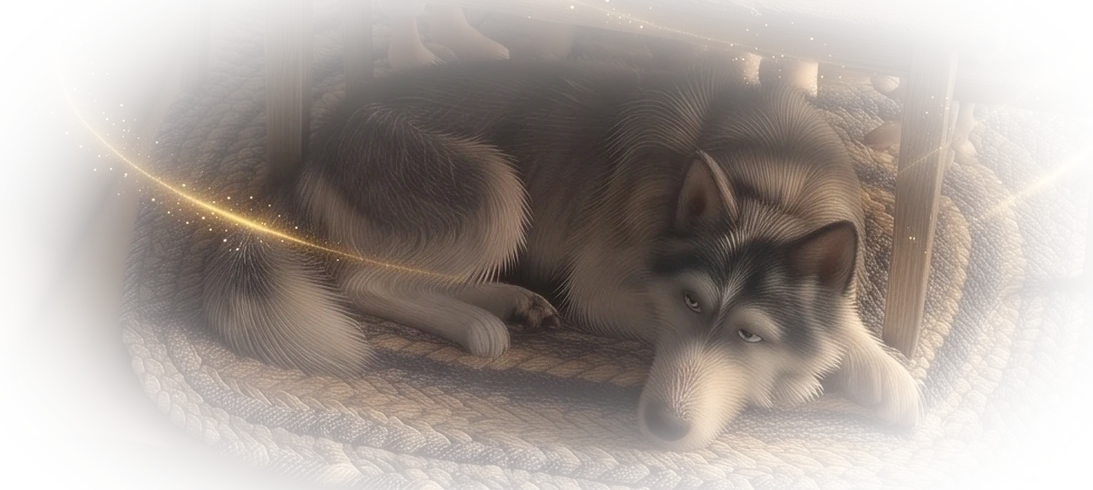
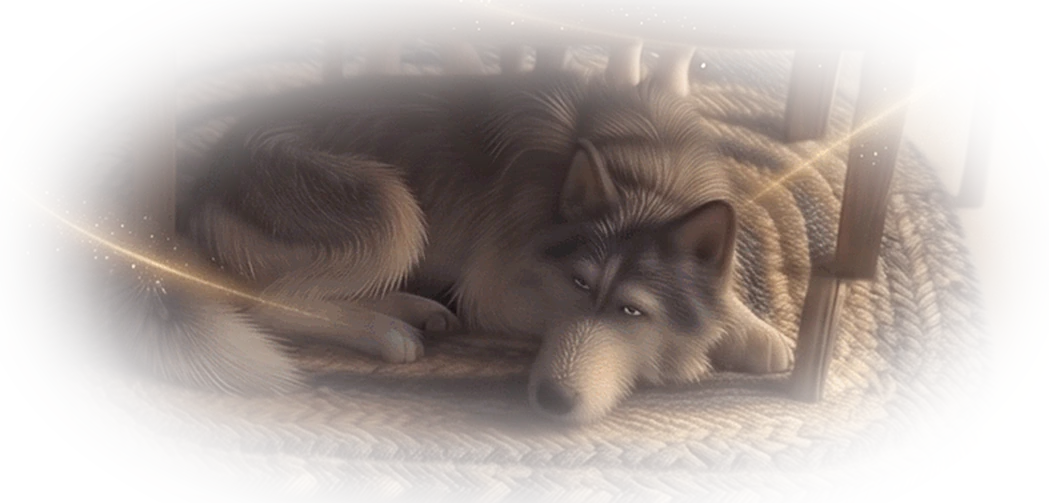
Upside-Down World p16: use the new widescreen dinner gif (two poses fade: family smiling at Sam's ball -> shocked gasp), Roma breathing, text on the left page, new depth map; drop the earlier portrait-fit art
Claude-Session: https://claude.ai/code/session_01BFtifSTdmWYaAK88ECs5PE

diff --git a/books/upside-down-world/sprite.js b/books/upside-down-world/sprite.js
@@ -1,2 +1,2 @@
 /* flying objects drawn over a still page: img = transparent sprite, rs = ball radius in the sprite, path = [x,y,radius] per frame at 24 fps in 1408x768 picture pixels */
-window.SPRITES={p01:{img:"img/p01-ball.webp",size:260,rs:104.5,path:[[951.0,390.0,18.5],[946.4,377.6,21.9],[944.8,373.2,22.6],[941.8,364.8,24.4],[938.6,356.8,26.0],[935.2,349.1,27.6],[931.6,342.1,29.2],[927.9,335.5,30.7],[923.8,329.1,32.0],[919.7,322.8,33.5],[915.7,316.9,34.9],[911.8,311.1,36.2],[907.8,305.5,37.6],[903.9,300.1,38.9],[899.8,295.1,40.2],[895.8,290.0,41.2],[891.4,285.1,42.2],[887.2,280.3,43.2],[882.9,275.7,44.3],[878.9,271.0,45.3],[874.9,266.6,46.5],[871.2,262.1,47.8],[867.5,257.7,49.1],[863.9,253.4,50.5],[860.2,249.1,51.8],[856.2,244.7,53.0],[852.4,240.6,54.2],[848.3,236.6,55.3],[843.9,232.6,56.5],[839.6,228.6,57.6],[835.4,224.8,58.6],[830.9,221.0,59.7],[826.3,217.3,60.7],[821.9,213.7,61.5],[817.4,210.1,62.4],[812.8,206.8,63.6],[808.1,203.5,64.5],[803.4,200.3,65.6],[798.8,196.9,66.6],[794.1,193.7,67.7],[789.4,190.4,68.8],[784.8,187.1,70.0],[780.1,183.8,71.3],[775.3,180.6,72.7],[770.3,177.4,74.1],[765.1,174.3,75.5],[759.8,171.1,77.0],[754.7,167.8,78.5],[749.2,164.6,80.0],[743.7,161.4,81.3],[738.1,157.9,82.7],[732.6,154.6,84.0]]},p02:{img:"img/p01-ball.webp",size:260,rs:104.5,kind:"lob",from:[1008,538,9],to:[1040,212,4.2],apex:170,rig:[{img:"img/p02-leg.webp",box:[960,515,60,60],pivot:[987,531],depth:[988,545],motion:"leg"}]},p03:{rig:[{img:"img/p03-leo.webp",box:[906,462,52,56],pivot:[932,504],depth:[932,495],motion:"headL"},{img:"img/p03-sam.webp",box:[946,475,52,56],pivot:[972,515],depth:[972,505],motion:"headS"}]},p03s:{img:"img/p01-ball.webp",size:260,rs:104.5,kind:"hops",ground:true,rest:1.6,start:[920.3,488.6,14.5],du:[1.25,.42,.3],grow:.5,bend:-62,hops:[[896,197,9.5,175],[892,187,8.5,15],[879,181,7.5,6]],to:[879,181,7.5]},p03t:{rig:[{img:"img/p03-turn.webp",box:[888,468,114,140],pivot:[945,538],depth:[945,540],motion:"turn"}]},p05p:{rig:[{img:"img/p05-point.webp",box:[884,452,118,156],pivot:[943,530],depth:[943,540],motion:"point2"}]},p06k:{rig:[{img:"img/p06-k0.webp",box:[878,423,80,114],pivot:[918.4,478.3],depth:[918.4,508.3],motion:"kf0"},{img:"img/p06-k1.webp",box:[866,417,97,111],pivot:[915.3,473.5],depth:[915.3,503.5],motion:"kf1"},{img:"img/p06-k2.webp",box:[874,472,99,116],pivot:[921.4,531.8],depth:[921.4,561.8],motion:"kf2"}]},p07k:{rig:[{img:"img/p07-kids.webp",box:[859.6,324.2,83.1,120.1],pivot:[910,404],depth:[910,395],motion:"walk7"}]},p08k:{rig:[{img:"img/p08-k1.webp",box:[750,272,339.5,323],pivot:[920,590],depth:[920,560],motion:"p8a"},{img:"img/p08-k2.webp",box:[781,272,283.5,323],pivot:[920,590],depth:[920,560],motion:"p8b"}]},p09k:{rig:[{img:"img/p09-wave.webp",box:[868,430,152,180],pivot:[944,520],depth:[944,540],motion:"p9"}]},p10k:{rig:[{img:"img/p10-kids.webp",box:[800,350,240,210],pivot:[920,455],depth:[920,470],motion:"stride"},{img:"img/p10-whale.webp",box:[640,30,550,380],pivot:[905,220],depth:[905,220],motion:"flip10"}]},p11k:{rig:[{img:"img/p10-kids.webp",box:[800,350,240,210],pivot:[920,455],depth:[920,470],motion:"stride"},{img:"img/p11-song.webp",box:[23,59,1272,491],pivot:[660,300],depth:[880,180],motion:"song11"}]},p12k:{rig:[{img:"img/p12-k1.webp",box:[810,340,250,260],pivot:[935,470],depth:[935,480],motion:"p12a"},{img:"img/p12-k2.webp",box:[810,340,250,260],pivot:[935,470],depth:[935,480],motion:"p12b"}]},p13k:{rig:[{img:"img/p13-gasp.webp",box:[920,350,140,140],pivot:[990,420],depth:[990,430],motion:"p13"}]},p14k:{rig:[{img:"img/p14-k1.webp",box:[850,320,210,220],pivot:[955,430],depth:[955,440],motion:"p14a"},{img:"img/p14-k2.webp",box:[850,320,210,220],pivot:[955,430],depth:[955,440],motion:"p14b"}]},p15k:{rig:[{img:"img/p15-k1.webp",box:[557,7,792,675.5],pivot:[953,345],depth:[975,418],motion:"p15a"},{img:"img/p15-k2.webp",box:[557,7,792,675.5],pivot:[953,345],depth:[975,418],motion:"p15b"}]},p16k:{rig:[{img:"img/p16-leo.webp",box:[817.5, 151.5, 139.0, 193.0],pivot:[887.2, 329.9],depth:[887, 248],motion:"p16leo"},{img:"img/p16-dad.webp",box:[945.0, 0.0, 192.5, 227.0],pivot:[1044.4, 230.1],depth:[1041, 103],motion:"p16dad"},{img:"img/p16-mom.webp",box:[1122.0, 53.0, 183.0, 209.0],pivot:[1219.7, 251.3],depth:[1214, 158],motion:"p16mom"},{img:"img/p16-sam.webp",box:[1178.0, 265.0, 143.5, 159.5],pivot:[1246.9, 417.6],depth:[1250, 345],motion:"p16sam"},{img:"img/p16-roma.webp",box:[716.5, 470.0, 546.5, 245.0],pivot:[990.0, 680.6],depth:[990, 593],motion:"p16roma"}]}};
+window.SPRITES={p01:{img:"img/p01-ball.webp",size:260,rs:104.5,path:[[951.0,390.0,18.5],[946.4,377.6,21.9],[944.8,373.2,22.6],[941.8,364.8,24.4],[938.6,356.8,26.0],[935.2,349.1,27.6],[931.6,342.1,29.2],[927.9,335.5,30.7],[923.8,329.1,32.0],[919.7,322.8,33.5],[915.7,316.9,34.9],[911.8,311.1,36.2],[907.8,305.5,37.6],[903.9,300.1,38.9],[899.8,295.1,40.2],[895.8,290.0,41.2],[891.4,285.1,42.2],[887.2,280.3,43.2],[882.9,275.7,44.3],[878.9,271.0,45.3],[874.9,266.6,46.5],[871.2,262.1,47.8],[867.5,257.7,49.1],[863.9,253.4,50.5],[860.2,249.1,51.8],[856.2,244.7,53.0],[852.4,240.6,54.2],[848.3,236.6,55.3],[843.9,232.6,56.5],[839.6,228.6,57.6],[835.4,224.8,58.6],[830.9,221.0,59.7],[826.3,217.3,60.7],[821.9,213.7,61.5],[817.4,210.1,62.4],[812.8,206.8,63.6],[808.1,203.5,64.5],[803.4,200.3,65.6],[798.8,196.9,66.6],[794.1,193.7,67.7],[789.4,190.4,68.8],[784.8,187.1,70.0],[780.1,183.8,71.3],[775.3,180.6,72.7],[770.3,177.4,74.1],[765.1,174.3,75.5],[759.8,171.1,77.0],[754.7,167.8,78.5],[749.2,164.6,80.0],[743.7,161.4,81.3],[738.1,157.9,82.7],[732.6,154.6,84.0]]},p02:{img:"img/p01-ball.webp",size:260,rs:104.5,kind:"lob",from:[1008,538,9],to:[1040,212,4.2],apex:170,rig:[{img:"img/p02-leg.webp",box:[960,515,60,60],pivot:[987,531],depth:[988,545],motion:"leg"}]},p03:{rig:[{img:"img/p03-leo.webp",box:[906,462,52,56],pivot:[932,504],depth:[932,495],motion:"headL"},{img:"img/p03-sam.webp",box:[946,475,52,56],pivot:[972,515],depth:[972,505],motion:"headS"}]},p03s:{img:"img/p01-ball.webp",size:260,rs:104.5,kind:"hops",ground:true,rest:1.6,start:[920.3,488.6,14.5],du:[1.25,.42,.3],grow:.5,bend:-62,hops:[[896,197,9.5,175],[892,187,8.5,15],[879,181,7.5,6]],to:[879,181,7.5]},p03t:{rig:[{img:"img/p03-turn.webp",box:[888,468,114,140],pivot:[945,538],depth:[945,540],motion:"turn"}]},p05p:{rig:[{img:"img/p05-point.webp",box:[884,452,118,156],pivot:[943,530],depth:[943,540],motion:"point2"}]},p06k:{rig:[{img:"img/p06-k0.webp",box:[878,423,80,114],pivot:[918.4,478.3],depth:[918.4,508.3],motion:"kf0"},{img:"img/p06-k1.webp",box:[866,417,97,111],pivot:[915.3,473.5],depth:[915.3,503.5],motion:"kf1"},{img:"img/p06-k2.webp",box:[874,472,99,116],pivot:[921.4,531.8],depth:[921.4,561.8],motion:"kf2"}]},p07k:{rig:[{img:"img/p07-kids.webp",box:[859.6,324.2,83.1,120.1],pivot:[910,404],depth:[910,395],motion:"walk7"}]},p08k:{rig:[{img:"img/p08-k1.webp",box:[750,272,339.5,323],pivot:[920,590],depth:[920,560],motion:"p8a"},{img:"img/p08-k2.webp",box:[781,272,283.5,323],pivot:[920,590],depth:[920,560],motion:"p8b"}]},p09k:{rig:[{img:"img/p09-wave.webp",box:[868,430,152,180],pivot:[944,520],depth:[944,540],motion:"p9"}]},p10k:{rig:[{img:"img/p10-kids.webp",box:[800,350,240,210],pivot:[920,455],depth:[920,470],motion:"stride"},{img:"img/p10-whale.webp",box:[640,30,550,380],pivot:[905,220],depth:[905,220],motion:"flip10"}]},p11k:{rig:[{img:"img/p10-kids.webp",box:[800,350,240,210],pivot:[920,455],depth:[920,470],motion:"stride"},{img:"img/p11-song.webp",box:[23,59,1272,491],pivot:[660,300],depth:[880,180],motion:"song11"}]},p12k:{rig:[{img:"img/p12-k1.webp",box:[810,340,250,260],pivot:[935,470],depth:[935,480],motion:"p12a"},{img:"img/p12-k2.webp",box:[810,340,250,260],pivot:[935,470],depth:[935,480],motion:"p12b"}]},p13k:{rig:[{img:"img/p13-gasp.webp",box:[920,350,140,140],pivot:[990,420],depth:[990,430],motion:"p13"}]},p14k:{rig:[{img:"img/p14-k1.webp",box:[850,320,210,220],pivot:[955,430],depth:[955,440],motion:"p14a"},{img:"img/p14-k2.webp",box:[850,320,210,220],pivot:[955,430],depth:[955,440],motion:"p14b"}]},p15k:{rig:[{img:"img/p15-k1.webp",box:[557,7,792,675.5],pivot:[953,345],depth:[975,418],motion:"p15a"},{img:"img/p15-k2.webp",box:[557,7,792,675.5],pivot:[953,345],depth:[975,418],motion:"p15b"}]},p16k:{rig:[{img:"img/p16-b.webp",box:[704.0, 14.5, 638.0, 367.0],pivot:[1023, 198],depth:[1063, 190],motion:"p16b"},{img:"img/p16-roma.webp",box:[705.5, 421.0, 524.5, 251.5],pivot:[968, 634],depth:[968, 547],motion:"p16roma"}]}};

diff --git a/books/upside-down-world/index.html b/books/upside-down-world/index.html
@@ -86,8 +86,8 @@ body.narrow #bar{gap:6px;padding-top:8px}body.narrow #bar button{padding:0 12px;
   <button id="auto" aria-pressed="true" title="Turn the pages by itself">Auto turn</button>
   <button id="next" aria-label="Next page">&#8594;</button>
 </div>
-<script src="story.js?v=3"></script>
-<script src="sprite.js?v=9"></script>
+<script src="story.js?v=4"></script>
+<script src="sprite.js?v=10"></script>
 <script src="voice.js"></script>
 <script src="vtime.js"></script>
 <script>
@@ -410,6 +410,7 @@ const MOT={
     return {dx:0,dy:0,rot:0,sx:1,sy:1,a};},
   /* page 16 (dinner): everyone sways and nods a little out of step; Roma breathes under the table */
   p16(tt,n){const P={leo:[.017,6.1,0],dad:[.012,7.3,1.3],mom:[.015,6.6,2.4],sam:[.022,5.2,.7]};
+    if(n==='b'){const T=12.5;tt=((tt%T)+T)%T;return {dx:0,dy:0,rot:0,sx:1,sy:1,a:tt<3.4?0:tt<5.1?ease((tt-3.4)/1.7):tt<9?1:tt<10.7?1-ease((tt-9)/1.7):0};}
     if(n==='roma'){const b=Math.sin(tt*2*Math.PI/4.4);return {dx:0,dy:0,rot:Math.sin(tt*2*Math.PI/9)*.002,sx:1+.004*b,sy:1+.013*b,a:1};}
     const q=P[n]||P.leo,w=2*Math.PI/q[1];return {dx:0,dy:Math.sin(tt*w*1.7+q[2])*.7,rot:Math.sin(tt*w+q[2])*q[0],sx:1,sy:1,a:1};},
   /* page 14: stare -> nervous smile -> laughing fit (giggles flicker between smile and laugh) -> calm (16 s) */

diff --git a/books/upside-down-world/story.js b/books/upside-down-world/story.js
@@ -46,6 +46,6 @@ window.STORY={title:"The Upside-Down World",author:"M. A. Mafodh",pages:[
 /* ---- Chapter 2 (no narration: pages turn on reading time) ---- */
 {img:"p15",sprite:"p15k",dust:true,box:[350,195,578,545],parts:[
  "Back at home their dog, Roma, a scruffy Husky, barked and wagged his tail as they opened the front door. \"We're home!\" their mom called from the kitchen."]},
-{img:"p16",sprite:"p16k",dust:true,box:[95,165,320,585],parts:[
+{img:"p16",sprite:"p16k",dust:true,box:[390,168,700,292],parts:[
  "Dinner was spaghetti and meatballs. Sam swirled his noodles, keeping his head down. Leo kicked him gently under the table."]}
 ]};
